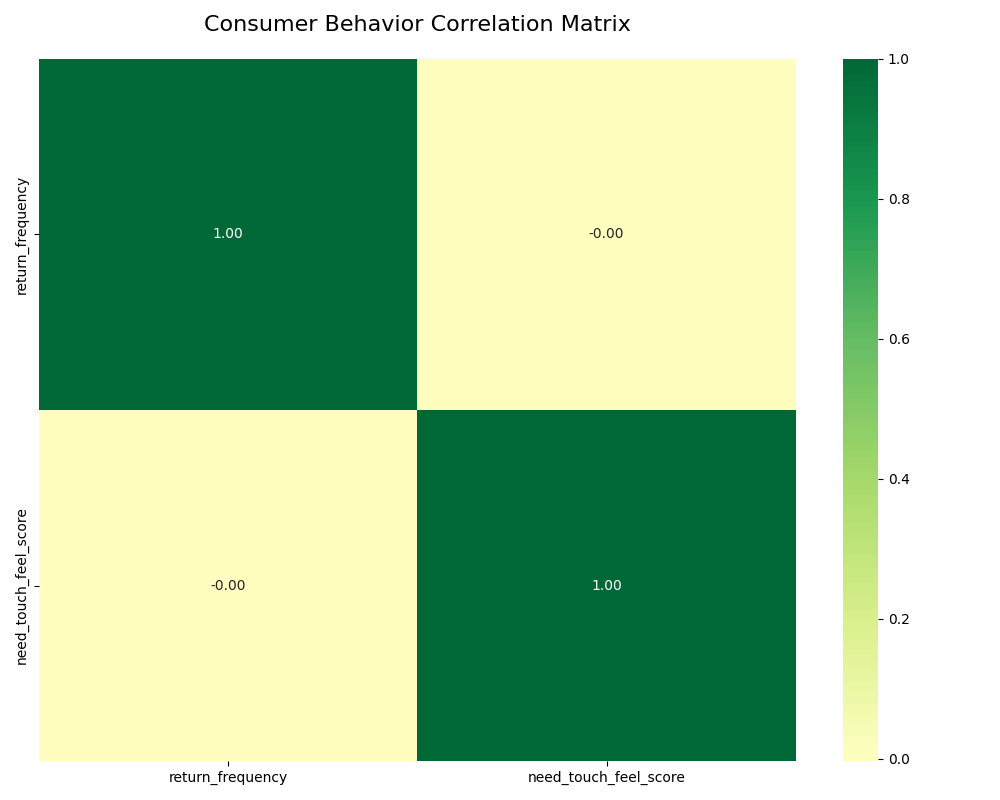
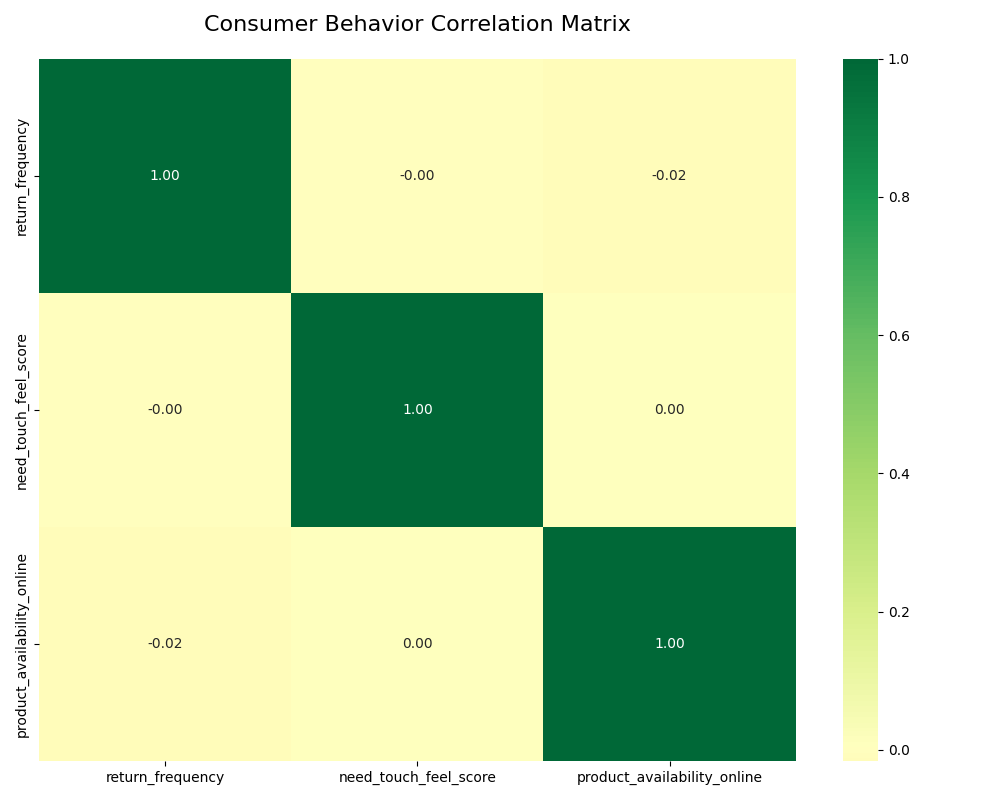
Add consumer behavior analysis and heatmap

diff --git a/analysis.py b/analysis.py
@@ -34,7 +34,7 @@ try:
 
     # 4. Behavioral Analysis (Correlation)
     behavioral_cols = ['monthly_spend', 'social_media_usage', 'tech_savvy', 
-                      'brand_loyalty', 'impulse_buying', 'return_frequency','need_touch_feel_score']
+                      'brand_loyalty', 'impulse_buying', 'return_frequency','need_touch_feel_score','product_availability_online']
 
     # Filter only columns that exist in the file to avoid errors
     existing_cols = [c for c in behavioral_cols if c in df.columns]
